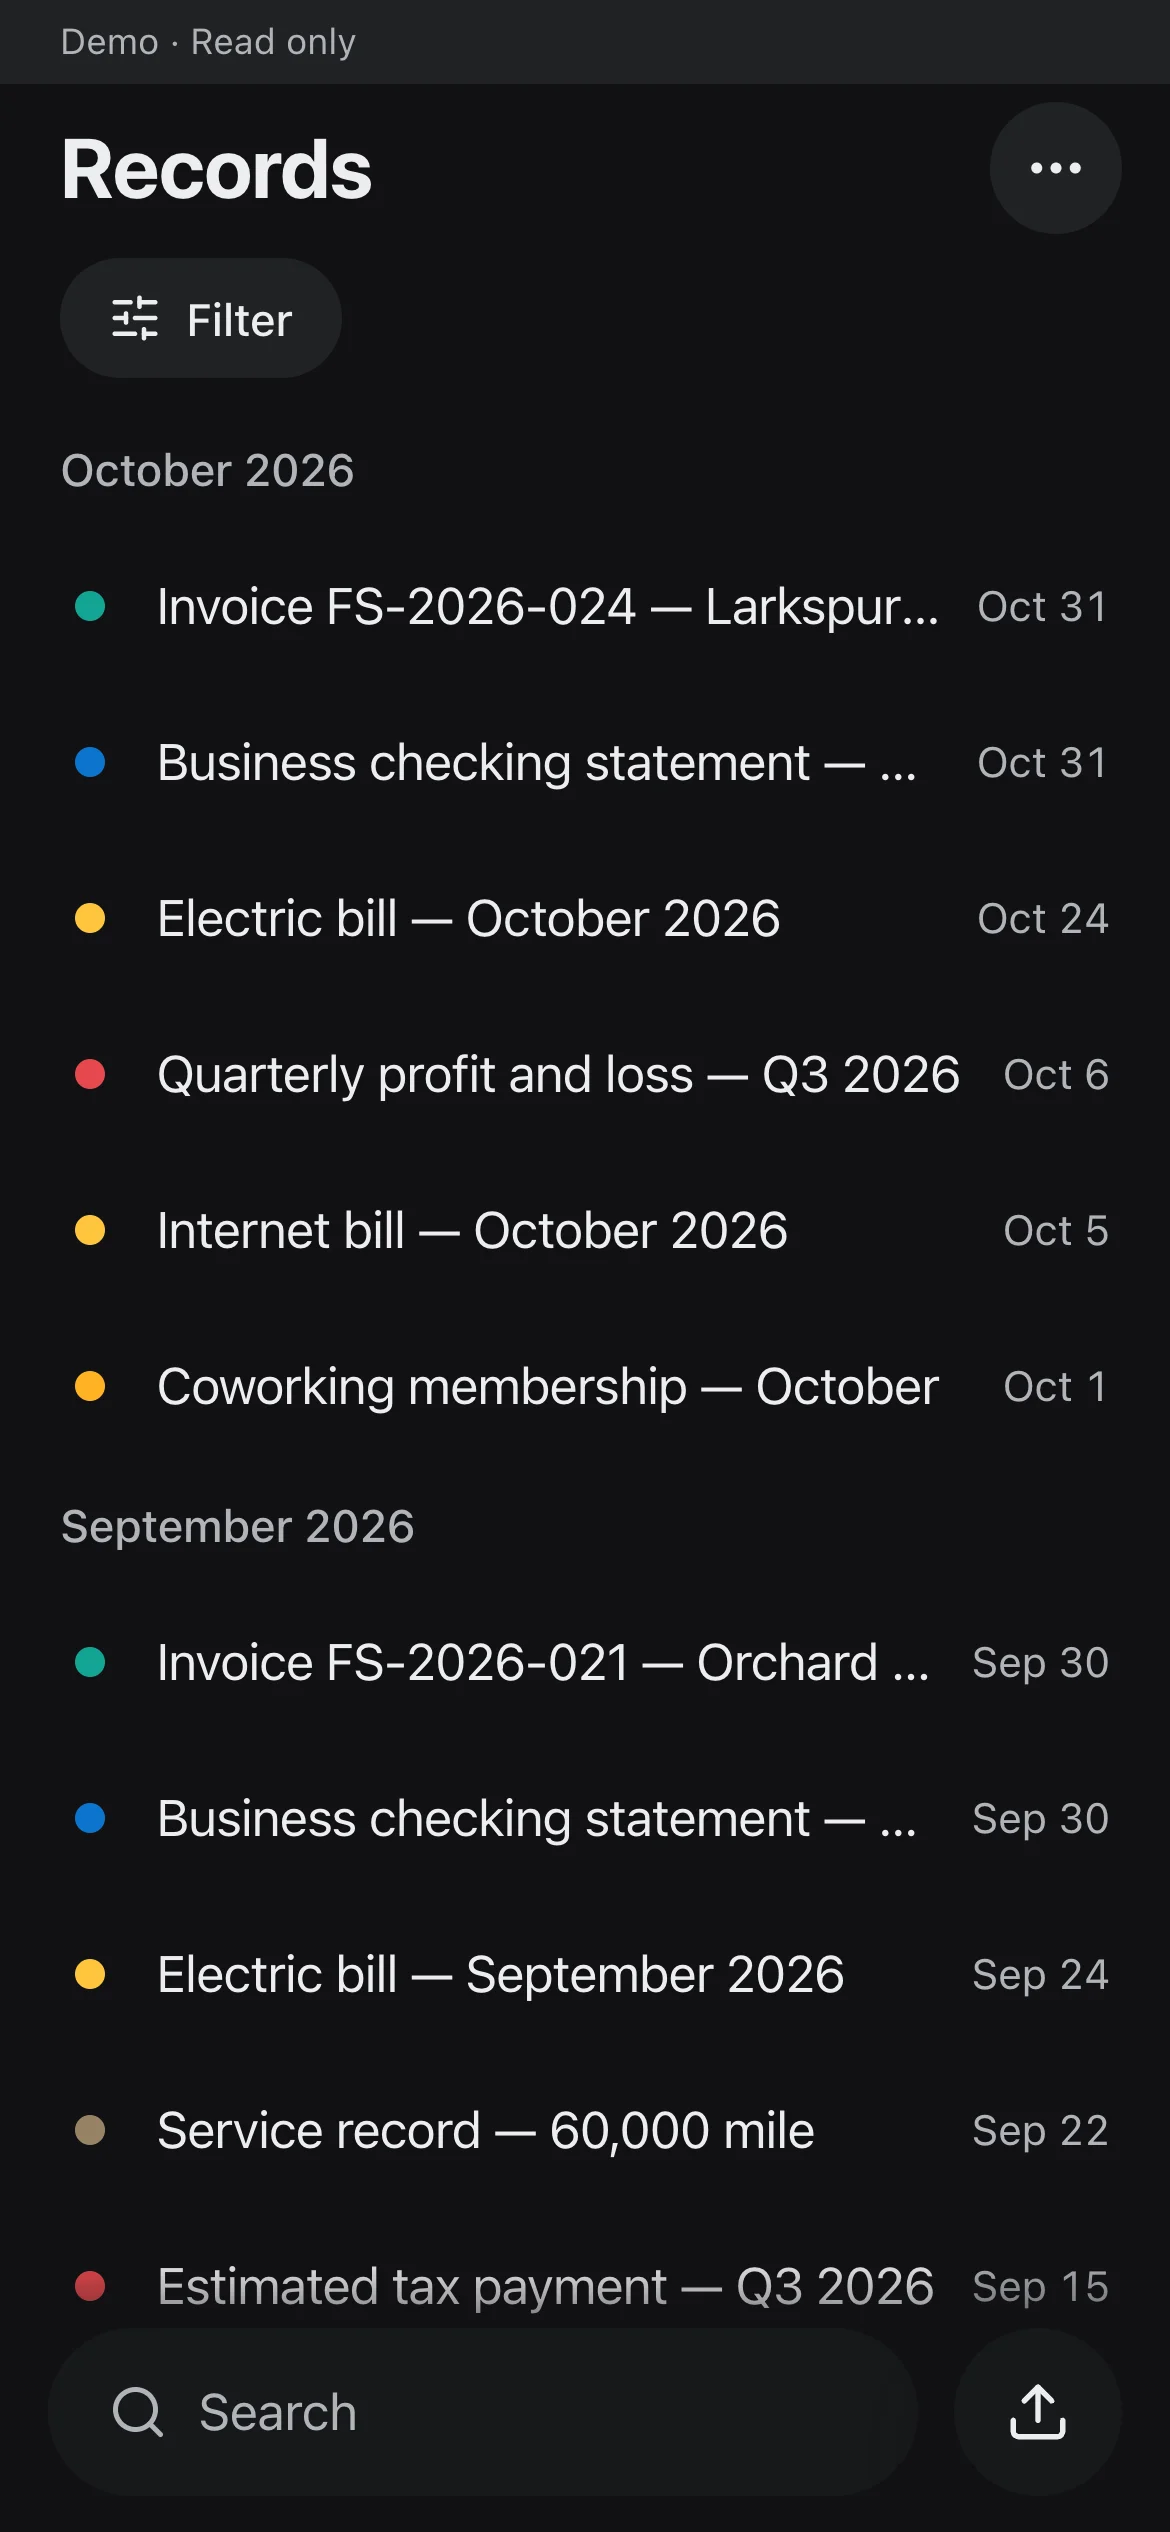
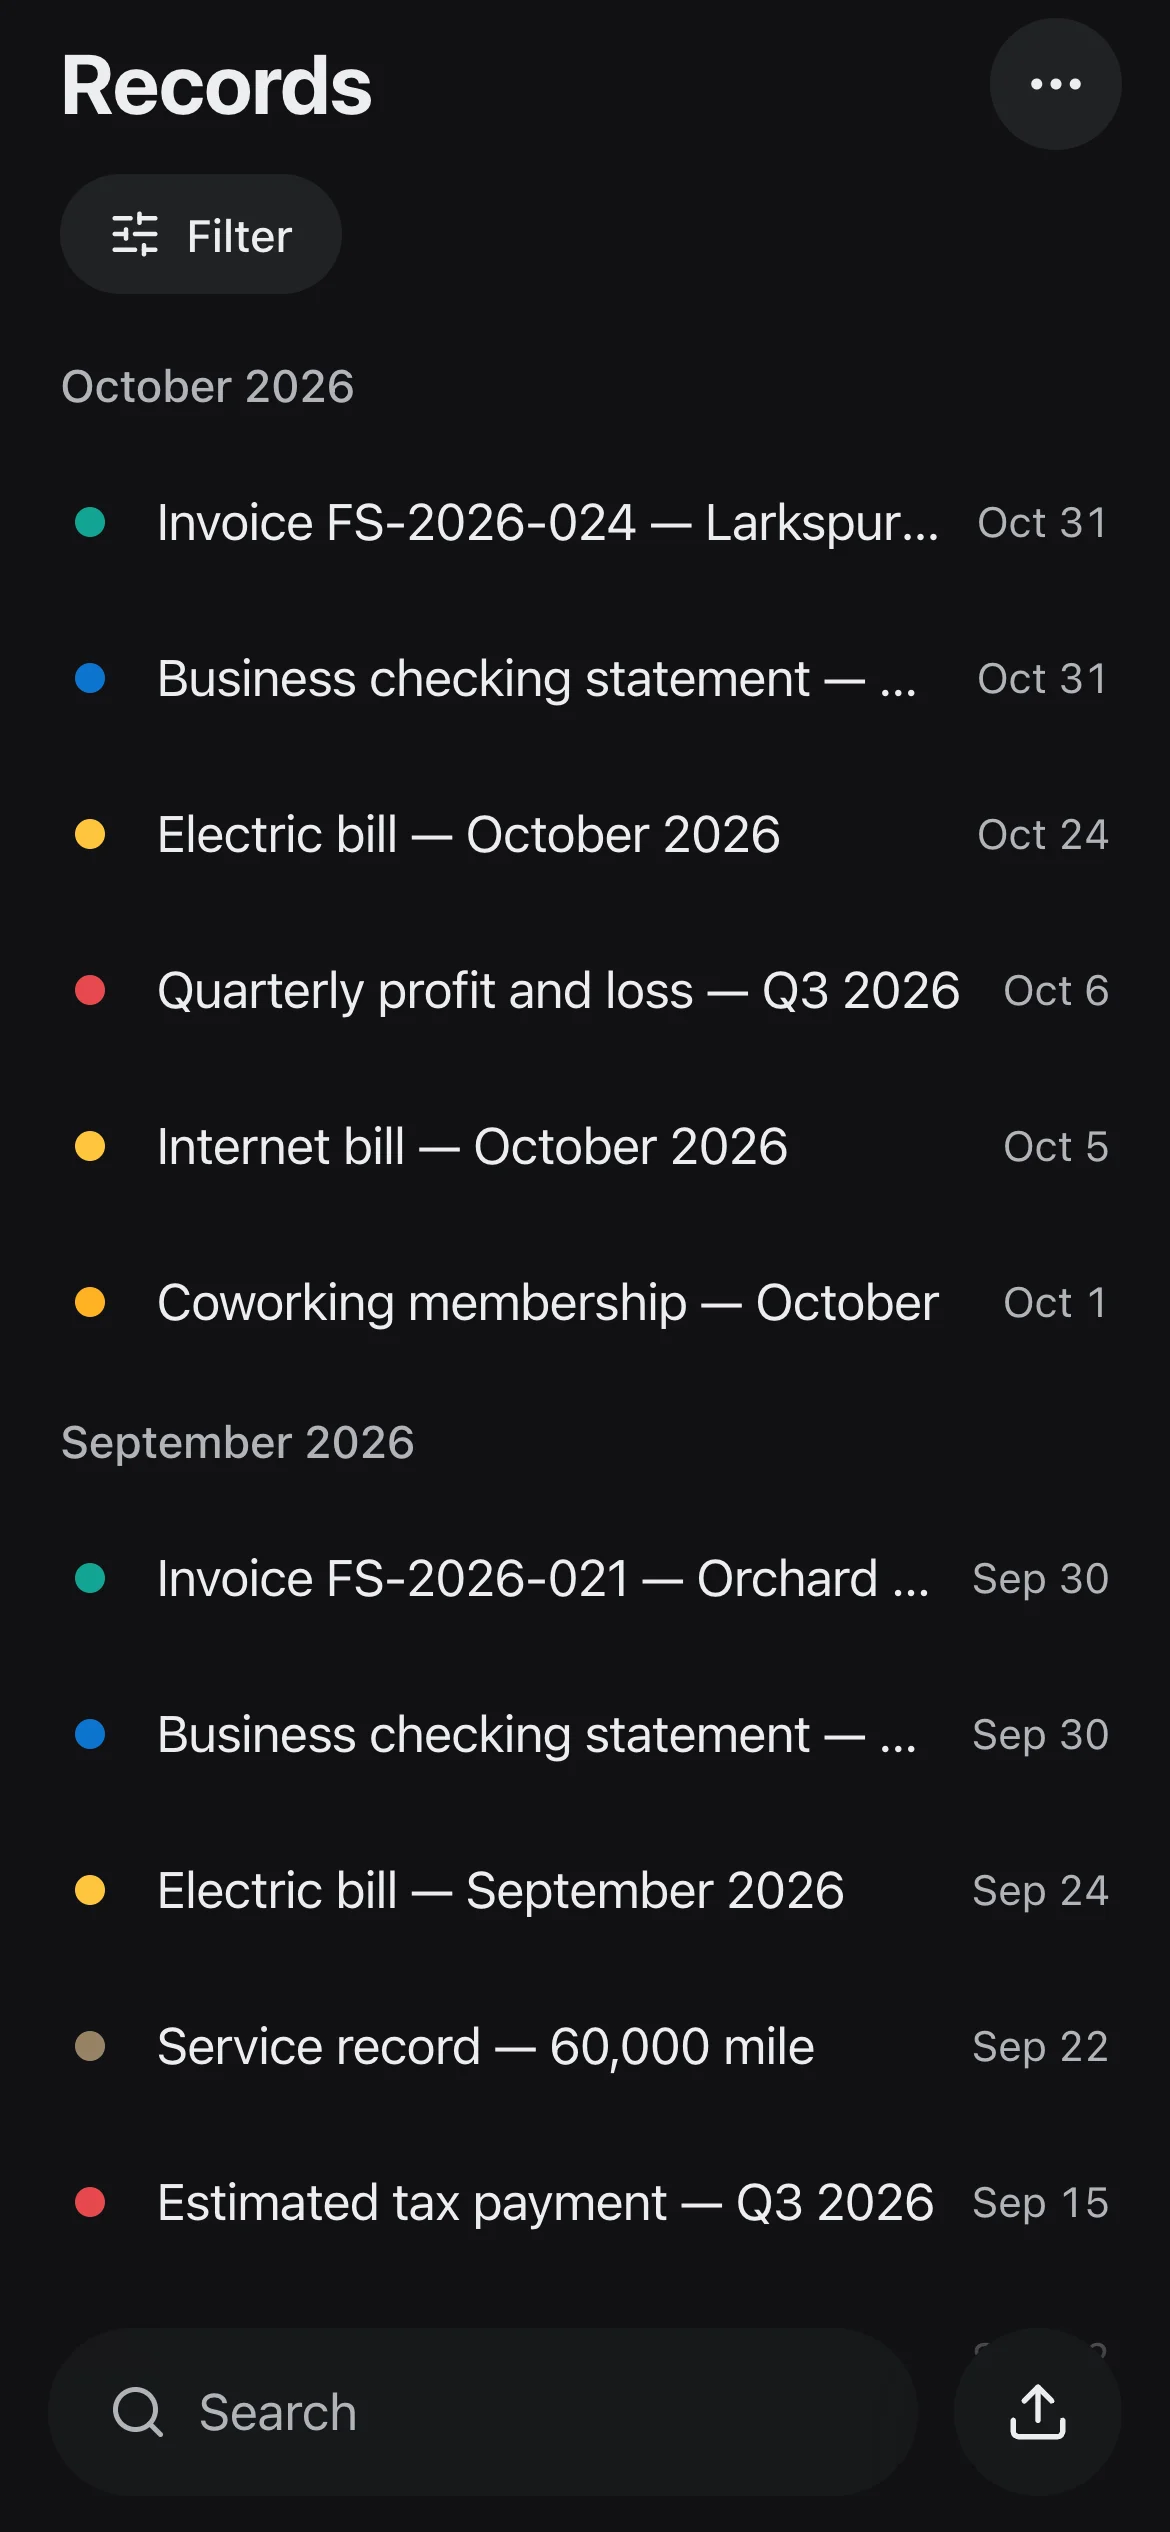
Use the app's Radix colors on the landing page and drop the phone demo bar
The landing page now uses Radix gray steps for its surfaces and text and
indigo-9 for the primary button, as the app does, in place of the green
tint. The read-only phone layout no longer shows the "Demo · Read only"
bar above the title; the desktop list keeps its small Demo label.

diff --git a/landing/index.html b/landing/index.html
@@ -12,37 +12,39 @@
     <meta property="og:title" content="Papermint" />
     <meta property="og:description" content="A quiet, installable frontend for Paperless-ngx." />
     <meta property="og:image" content="https://papermint.hobbyhood.app/media/desktop-dark.webp" />
-    <meta name="theme-color" content="#08100c" />
+    <meta name="theme-color" content="#111113" media="(prefers-color-scheme: dark)" />
+    <meta name="theme-color" content="#fcfcfd" media="(prefers-color-scheme: light)" />
     <link rel="icon" href="/demo/favicon.png" type="image/png" />
     <link rel="apple-touch-icon" href="/demo/icons/apple-touch-icon.png" />
     <style>
       :root {
-        --bg: #070b09;
-        --surface: #0e1512;
-        --edge: rgba(214, 245, 225, 0.09);
-        --edge-strong: rgba(214, 245, 225, 0.16);
-        --text: #eef6f0;
-        --muted: #8a978f;
-        --faint: #5c6862;
-        --mint: #c4f2d6;
-        --mint-ink: #04140b;
-        --glow: rgba(110, 231, 168, 0.16);
+        /* Radix gray and indigo, dark: the same steps the app uses (src/styles/radix). */
+        --bg: #111113; /* gray-1 */
+        --surface: #18191b; /* gray-2 */
+        --edge: #272a2d; /* gray-4 */
+        --edge-strong: #363a3f; /* gray-6 */
+        --text: #edeef0; /* gray-12 */
+        --muted: #b0b4ba; /* gray-11 */
+        --faint: #777b84; /* gray-10 */
+        --primary: #3e63dd; /* indigo-9 */
+        --on-primary: #ffffff;
+        --glow: rgba(62, 99, 221, 0.22); /* indigo-9 */
         --font:
           ui-sans-serif, system-ui, -apple-system, 'Segoe UI', Roboto, 'Helvetica Neue', sans-serif;
         color-scheme: dark;
       }
       @media (prefers-color-scheme: light) {
         :root {
-          --bg: #f7faf8;
+          --bg: #fcfcfd; /* gray-1 */
           --surface: #ffffff;
-          --edge: rgba(8, 40, 22, 0.08);
-          --edge-strong: rgba(8, 40, 22, 0.14);
-          --text: #0c1611;
-          --muted: #5d6b63;
-          --faint: #8c9891;
-          --mint: #0f3d26;
-          --mint-ink: #e9fbf0;
-          --glow: rgba(46, 160, 98, 0.14);
+          --edge: #e8e8ec; /* gray-4 */
+          --edge-strong: #d9d9e0; /* gray-6 */
+          --text: #1c2024; /* gray-12 */
+          --muted: #60646c; /* gray-11 */
+          --faint: #80838d; /* gray-10 */
+          --primary: #3e63dd; /* indigo-9 */
+          --on-primary: #ffffff;
+          --glow: rgba(62, 99, 221, 0.14);
           color-scheme: light;
         }
       }
@@ -139,8 +141,8 @@
         height: 46px;
         padding: 0 22px;
         border-radius: 12px;
-        background: var(--mint);
-        color: var(--mint-ink);
+        background: var(--primary);
+        color: var(--on-primary);
         font-weight: 500;
         font-size: 15px;
         box-shadow:
@@ -260,7 +262,7 @@
         min-width: 150px;
         border-radius: 34px;
         padding: 7px;
-        background: #050806;
+        background: #111113;
         box-shadow:
           0 0 0 1px var(--edge-strong),
           0 30px 80px rgba(0, 0, 0, 0.5);

diff --git a/src/components/Filters.tsx b/src/components/Filters.tsx
@@ -72,7 +72,6 @@ function MobileFilters({
   const { areas, selected } = useTopics();
   return (
     <>
-      {runtimeConfig().readOnly && <div class="demo-label">Demo · Read only</div>}
       <TopBar
         view={view}
         chips={chips}

diff --git a/src/styles/list.css b/src/styles/list.css
@@ -238,10 +238,6 @@
   border-radius: var(--radius-1);
 }
 
-.list-scroll > .demo-label {
-  padding: 4px 20px;
-}
-
 @container list-toolbar (max-width: 340px) {
   .list-head .demo-label {
     display: none;
